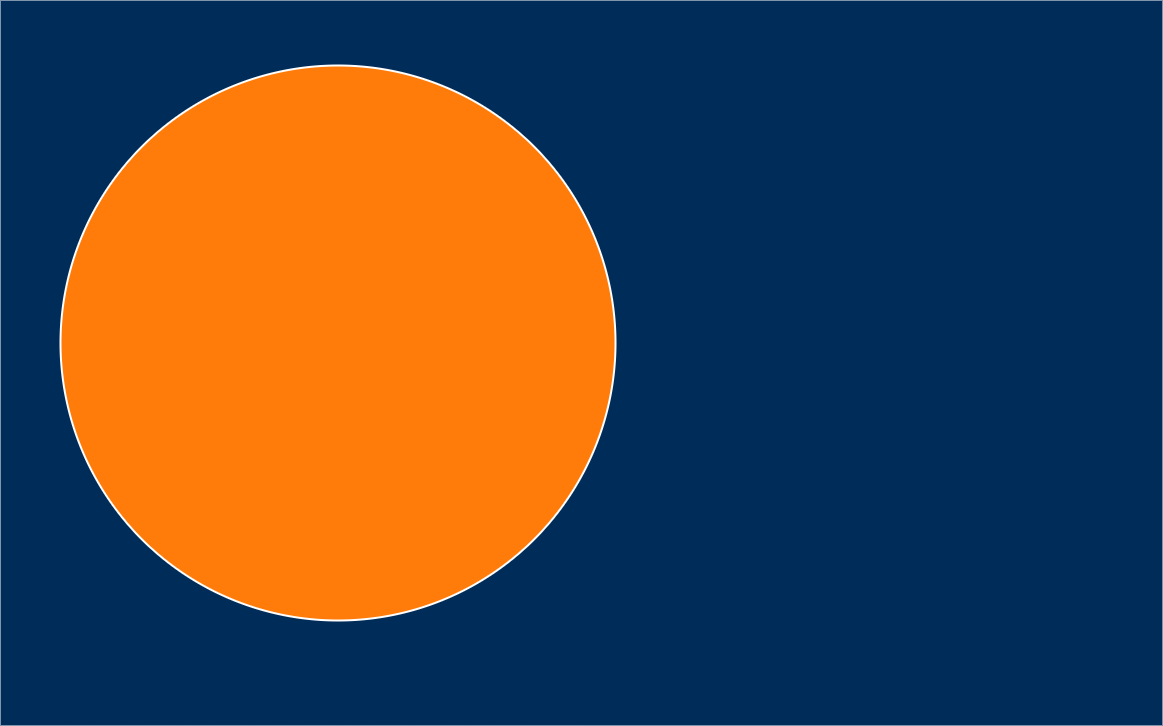
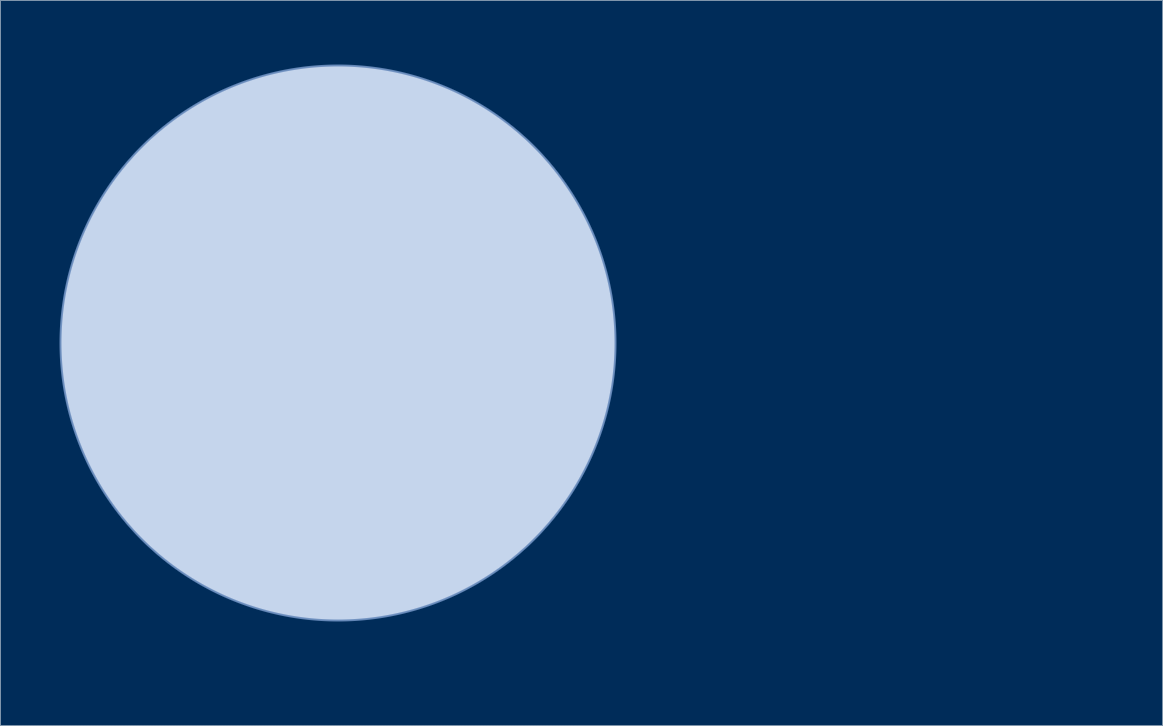
MAJ du design de la fenêtre de jeu :
-  modification des couleurs des pièces et du plateau
- modification couleurs des éléments dans le bandeau du haut

# Conflicts:
#	couleur_fond_piece.txt
#	img_pieces/gcac.png
#	img_pieces/gcbc.png

Changed region(s): [[0.031, 0.0909, 0.5572, 0.8788]]

diff --git a/Main.java b/Main.java
@@ -3,9 +3,10 @@ import java.nio.charset.StandardCharsets;
 public class Main {
 	
 	public static void main(String[] args){
-		FenetreMenu menu = new FenetreMenu();
+		//FenetreMenu menu = new FenetreMenu();
 		//FenetreRegles regles = new FenetreRegles();
-		//FenetreJeu jeu = new FenetreJeu(true);
+		FenetreJeu jeu = new FenetreJeu(true);
+		
 		/*
 		Joueur[] joueurs = new Joueur[2];
 		joueurs[0] = new Joueur("Joueur 1");
@@ -24,6 +25,7 @@ public class Main {
 		result = new String(textBytes, StandardCharsets.UTF_8);
 		return result;
 	}
+
 	
 
 	

diff --git a/FenetreJeu.java b/FenetreJeu.java
@@ -154,7 +154,7 @@ public class FenetreJeu extends JFrame implements ActionListener {
         JPanel panneauEtape = new JPanel();
 		panneauEtape.setBounds(15,tailleHaut -50 -10,600,30);
 		panneauEtape.setLayout(null);
-		panneauEtape.setBackground(Color.pink); //couleur de font du text
+		panneauEtape.setBackground(Color.black); //couleur de font du text
         
         affEtape = new JLabel();
         affEtape.setFont(new Font("Dialog", Font.BOLD, 20));
